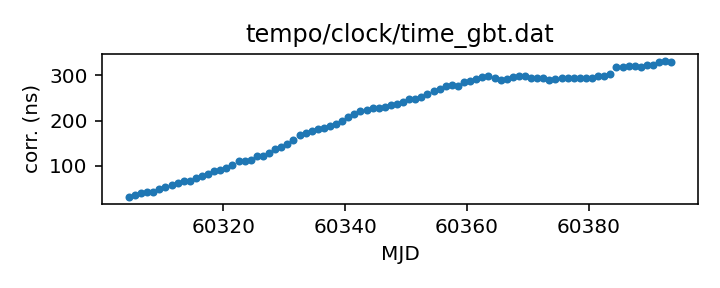
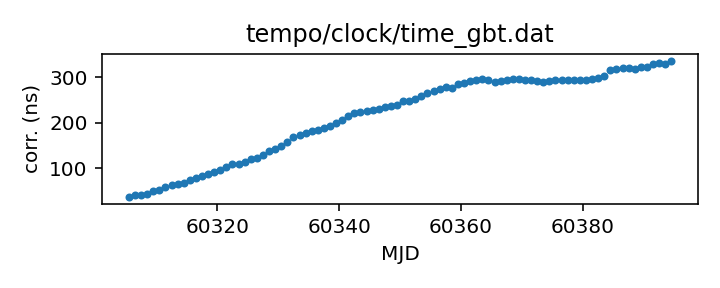
Routine gh-pages update from Github action Tue Mar 26 20:30:22 UTC 2024

diff --git a/status.md b/status.md
@@ -13,17 +13,17 @@ name of each clock file links to a page with more details.
 
 | Name | File | Corrections start | Corrections end | Last check date | Last check result 
 |:--- |:--- | --- | --- | --- |:--- 
-| [GPS to UTC](T2runtime/clock/gps2utc.clk.html) | `T2runtime/clock/gps2utc.clk` | 1993-01-01 MJD 48988.0 | 2024-02-29 MJD 60369.0 | 2024-03-25 | Unchanged 
-| [GPS to UTC (Combined Clock)](T2runtime/clock/gps2utc_cc.clk.html) | `T2runtime/clock/gps2utc_cc.clk` | 1993-01-01 MJD 48988.0 | 2024-02-29 MJD 60369.0 | 2024-03-25 | Unchanged 
-| [GPS to UTC (Corrected)](T2runtime/clock/gps2utc_c0p.clk.html) | `T2runtime/clock/gps2utc_c0p.clk` | 2010-12-29 MJD 55559.0 | 2024-02-29 MJD 60369.0 | 2024-03-25 | Unchanged 
-| [GBT](tempo/clock/time_gbt.dat.html) | `tempo/clock/time_gbt.dat` | 2000-12-31 MJD 51909.5 | 2024-03-24 MJD 60393.5 | 2024-03-25 | Updated 
-| [GBT (TEMPO2 converted from TEMPO)](T2runtime/clock/gbt2gps.clk.html) | `T2runtime/clock/gbt2gps.clk` | 2000-12-31 MJD 51909.5 | 2023-03-20 MJD 60023.5 | 2024-03-25 | **Validation failed** 
+| [GPS to UTC](T2runtime/clock/gps2utc.clk.html) | `T2runtime/clock/gps2utc.clk` | 1993-01-01 MJD 48988.0 | 2024-02-29 MJD 60369.0 | 2024-03-26 | Unchanged 
+| [GPS to UTC (Combined Clock)](T2runtime/clock/gps2utc_cc.clk.html) | `T2runtime/clock/gps2utc_cc.clk` | 1993-01-01 MJD 48988.0 | 2024-02-29 MJD 60369.0 | 2024-03-26 | Unchanged 
+| [GPS to UTC (Corrected)](T2runtime/clock/gps2utc_c0p.clk.html) | `T2runtime/clock/gps2utc_c0p.clk` | 2010-12-29 MJD 55559.0 | 2024-02-29 MJD 60369.0 | 2024-03-26 | Unchanged 
+| [GBT](tempo/clock/time_gbt.dat.html) | `tempo/clock/time_gbt.dat` | 2000-12-31 MJD 51909.5 | 2024-03-25 MJD 60394.5 | 2024-03-26 | Updated 
+| [GBT (TEMPO2 converted from TEMPO)](T2runtime/clock/gbt2gps.clk.html) | `T2runtime/clock/gbt2gps.clk` | 2000-12-31 MJD 51909.5 | 2023-03-20 MJD 60023.5 | 2024-03-26 | **Validation failed** 
 | [Jodrell Bank](T2runtime/clock/jb2gps.clk.html) | `T2runtime/clock/jb2gps.clk` | 2006-10-13 MJD 54021.4 | 2023-12-04 MJD 60282.0 | 2024-03-21 | Unchanged 
 | [Jodrell Bank Roach](T2runtime/clock/jbroach2jb.clk.html) | `T2runtime/clock/jbroach2jb.clk` | 2006-10-13 MJD 54021.4 | 2018-03-20 MJD 58197.6 | 2024-03-21 | Unchanged 
 | [Jodrell Bank DFB](T2runtime/clock/jbdfb2jb.clk.html) | `T2runtime/clock/jbdfb2jb.clk` | 2006-10-13 MJD 54021.4 | 2017-05-11 MJD 57884.0 | 2024-03-21 | Unchanged 
 | [Meerkat (observatory)](T2runtime/clock/mk2utc_observatory.clk.html) | `T2runtime/clock/mk2utc_observatory.clk` | 2019-01-01 MJD 58484.0 | 2024-01-31 MJD 60341.0 | 2024-03-21 | Unchanged 
-| [Leap seconds](tempo/clock/leap.sec.html) | `tempo/clock/leap.sec` | 1972-07-01 MJD 41499.0 | 2017-01-01 MJD 57754.0 | 2024-03-25 | Unchanged 
-| [UT1 table](tempo/clock/ut1.dat.html) | `tempo/clock/ut1.dat` | 1973-01-02 MJD 41684.0 | 2025-03-29 MJD 60763.0 | 2024-03-25 | Unchanged 
+| [Leap seconds](tempo/clock/leap.sec.html) | `tempo/clock/leap.sec` | 1972-07-01 MJD 41499.0 | 2017-01-01 MJD 57754.0 | 2024-03-26 | Unchanged 
+| [UT1 table](tempo/clock/ut1.dat.html) | `tempo/clock/ut1.dat` | 1973-01-02 MJD 41684.0 | 2025-03-29 MJD 60763.0 | 2024-03-26 | Unchanged 
 
 
 

diff --git a/T2runtime/clock/gbt2gps.clk.md b/T2runtime/clock/gbt2gps.clk.md
@@ -25,12 +25,11 @@ If questions arise about the conversion, contact Anne Archibald
 | Clock file start | 2000-12-31 MJD 51909.5 |
 | Clock file end | 2023-03-20 MJD 60023.5 |
 | Update interval (days) | 1 |
-| Last update attempt | 2024-03-25 |
+| Last update attempt | 2024-03-26 |
 | Last update result | Validation failed |
 
 Log entries from the last few update attempts:
 ```
-2024-03-16 20:29:22.102 - Validation failed: New version of T2runtime/clock/gbt2gps.clk clock corrections differ from old version where they overlap in 11 places
 2024-03-17 20:29:40.728 - Validation failed: New version of T2runtime/clock/gbt2gps.clk clock corrections differ from old version where they overlap in 11 places
 2024-03-18 20:29:24.548 - Validation failed: New version of T2runtime/clock/gbt2gps.clk clock corrections differ from old version where they overlap in 11 places
 2024-03-19 20:29:39.312 - Validation failed: New version of T2runtime/clock/gbt2gps.clk clock corrections differ from old version where they overlap in 11 places
@@ -40,6 +39,7 @@ Log entries from the last few update attempts:
 2024-03-23 20:29:41.541 - Validation failed: New version of T2runtime/clock/gbt2gps.clk clock corrections differ from old version where they overlap in 11 places
 2024-03-24 20:29:16.754 - Validation failed: New version of T2runtime/clock/gbt2gps.clk clock corrections differ from old version where they overlap in 11 places
 2024-03-25 20:29:35.707 - Validation failed: New version of T2runtime/clock/gbt2gps.clk clock corrections differ from old version where they overlap in 11 places
+2024-03-26 20:29:51.293 - Validation failed: New version of T2runtime/clock/gbt2gps.clk clock corrections differ from old version where they overlap in 11 places
 ```
 [Full log](https://raw.githubusercontent.com/ipta/pulsar-clock-corrections/main/log/T2runtime/clock/gbt2gps.clk.log)
 

diff --git a/T2runtime/clock/gps2utc_cc.clk.md b/T2runtime/clock/gps2utc_cc.clk.md
@@ -29,12 +29,11 @@ about the BIPM's published corrections, contact <tai@bipm.org>.
 | Clock file start | 1993-01-01 MJD 48988.0 |
 | Clock file end | 2024-02-29 MJD 60369.0 |
 | Update interval (days) | 1 |
-| Last update attempt | 2024-03-25 |
+| Last update attempt | 2024-03-26 |
 | Last update result | Unchanged |
 
 Log entries from the last few update attempts:
 ```
-2024-03-16 20:29:21.493 - Unchanged
 2024-03-17 20:29:40.153 - Unchanged
 2024-03-18 20:29:24.006 - Unchanged
 2024-03-19 20:29:38.337 - Unchanged
@@ -44,6 +43,7 @@ Log entries from the last few update attempts:
 2024-03-23 20:29:41.082 - Unchanged
 2024-03-24 20:29:15.350 - Failed to download: <urlopen error 530 Sorry, the maximum number of allowed clients (20) are already connected.>
 2024-03-25 20:29:34.548 - Unchanged
+2024-03-26 20:29:50.367 - Unchanged
 ```
 [Full log](https://raw.githubusercontent.com/ipta/pulsar-clock-corrections/main/log/T2runtime/clock/gps2utc_cc.clk.log)
 

diff --git a/T2runtime/clock/gps2utc.clk.md b/T2runtime/clock/gps2utc.clk.md
@@ -32,12 +32,11 @@ about the BIPM's published corrections, contact <tai@bipm.org>.
 | Clock file start | 1993-01-01 MJD 48988.0 |
 | Clock file end | 2024-02-29 MJD 60369.0 |
 | Update interval (days) | 1 |
-| Last update attempt | 2024-03-25 |
+| Last update attempt | 2024-03-26 |
 | Last update result | Unchanged |
 
 Log entries from the last few update attempts:
 ```
-2024-03-16 20:29:21.467 - Unchanged
 2024-03-17 20:29:40.127 - Unchanged
 2024-03-18 20:29:23.980 - Unchanged
 2024-03-19 20:29:38.312 - Unchanged
@@ -47,6 +46,7 @@ Log entries from the last few update attempts:
 2024-03-23 20:29:41.056 - Unchanged
 2024-03-24 20:29:14.355 - Failed to download: <urlopen error 530 Sorry, the maximum number of allowed clients (20) are already connected.>
 2024-03-25 20:29:34.523 - Unchanged
+2024-03-26 20:29:50.342 - Unchanged
 ```
 [Full log](https://raw.githubusercontent.com/ipta/pulsar-clock-corrections/main/log/T2runtime/clock/gps2utc.clk.log)
 

diff --git a/tempo/clock/time_gbt.dat.md b/tempo/clock/time_gbt.dat.md
@@ -31,14 +31,13 @@ If questions arise, contact Ryan S. Lynch <rlynch@nrao.edu>.
 | Format | tempo |
 | Bogus last correction | False |
 | Clock file start | 2000-12-31 MJD 51909.5 |
-| Clock file end | 2024-03-24 MJD 60393.5 |
+| Clock file end | 2024-03-25 MJD 60394.5 |
 | Update interval (days) | 1 |
-| Last update attempt | 2024-03-25 |
+| Last update attempt | 2024-03-26 |
 | Last update result | Updated |
 
 Log entries from the last few update attempts:
 ```
-2024-03-16 20:29:22.031 - Updated
 2024-03-17 20:29:40.670 - Updated
 2024-03-18 20:29:24.492 - Updated
 2024-03-19 20:29:39.255 - Updated
@@ -48,6 +47,7 @@ Log entries from the last few update attempts:
 2024-03-23 20:29:41.484 - Updated
 2024-03-24 20:29:16.696 - Updated
 2024-03-25 20:29:35.650 - Updated
+2024-03-26 20:29:51.236 - Updated
 ```
 [Full log](https://raw.githubusercontent.com/ipta/pulsar-clock-corrections/main/log/tempo/clock/time_gbt.dat.log)
 

diff --git a/T2runtime/clock/gps2utc_c0p.clk.md b/T2runtime/clock/gps2utc_c0p.clk.md
@@ -30,12 +30,11 @@ about the BIPM's published corrections, contact <tai@bipm.org>.
 | Clock file start | 2010-12-29 MJD 55559.0 |
 | Clock file end | 2024-02-29 MJD 60369.0 |
 | Update interval (days) | 1 |
-| Last update attempt | 2024-03-25 |
+| Last update attempt | 2024-03-26 |
 | Last update result | Unchanged |
 
 Log entries from the last few update attempts:
 ```
-2024-03-16 20:29:21.501 - Unchanged
 2024-03-17 20:29:40.163 - Unchanged
 2024-03-18 20:29:24.015 - Unchanged
 2024-03-19 20:29:38.346 - Unchanged
@@ -45,6 +44,7 @@ Log entries from the last few update attempts:
 2024-03-23 20:29:41.092 - Unchanged
 2024-03-24 20:29:16.287 - Unchanged
 2024-03-25 20:29:34.557 - Unchanged
+2024-03-26 20:29:50.376 - Unchanged
 ```
 [Full log](https://raw.githubusercontent.com/ipta/pulsar-clock-corrections/main/log/T2runtime/clock/gps2utc_c0p.clk.log)
 

diff --git a/tempo/clock/leap.sec.md b/tempo/clock/leap.sec.md
@@ -21,12 +21,11 @@ If there are any questions, contact Anne Archibald
 | File start | 1972-07-01 MJD 41499.0 |
 | File end | 2017-01-01 MJD 57754.0 |
 | Update interval (days) | 0 |
-| Last update attempt | 2024-03-25 |
+| Last update attempt | 2024-03-26 |
 | Last update result | Unchanged |
 
 Log entries from the last few update attempts:
 ```
-2024-03-16 20:29:22.138 - Unchanged
 2024-03-17 20:29:40.756 - Unchanged
 2024-03-18 20:29:24.861 - Unchanged
 2024-03-19 20:29:39.340 - Unchanged
@@ -36,5 +35,6 @@ Log entries from the last few update attempts:
 2024-03-23 20:29:41.569 - Unchanged
 2024-03-24 20:29:16.784 - Unchanged
 2024-03-25 20:29:36.588 - Unchanged
+2024-03-26 20:29:51.321 - Unchanged
 ```
 [Full log](https://raw.githubusercontent.com/ipta/pulsar-clock-corrections/main/log/tempo/clock/leap.sec.log)

diff --git a/tempo/clock/ut1.dat.md b/tempo/clock/ut1.dat.md
@@ -30,12 +30,11 @@ If there are any questions, contact Anne Archibald
 | File start | 1973-01-02 MJD 41684.0 |
 | File end | 2025-03-29 MJD 60763.0 |
 | Update interval (days) | 0 |
-| Last update attempt | 2024-03-25 |
+| Last update attempt | 2024-03-26 |
 | Last update result | Unchanged |
 
 Log entries from the last few update attempts:
 ```
-2024-03-16 20:29:32.675 - Unchanged
 2024-03-17 20:29:50.376 - Unchanged
 2024-03-18 20:29:32.161 - Unchanged
 2024-03-19 20:29:51.149 - Unchanged
@@ -45,5 +44,6 @@ Log entries from the last few update attempts:
 2024-03-23 20:29:50.666 - Unchanged
 2024-03-24 20:29:25.526 - Unchanged
 2024-03-25 20:29:50.209 - Unchanged
+2024-03-26 20:30:02.590 - Unchanged
 ```
 [Full log](https://raw.githubusercontent.com/ipta/pulsar-clock-corrections/main/log/tempo/clock/ut1.dat.log)
